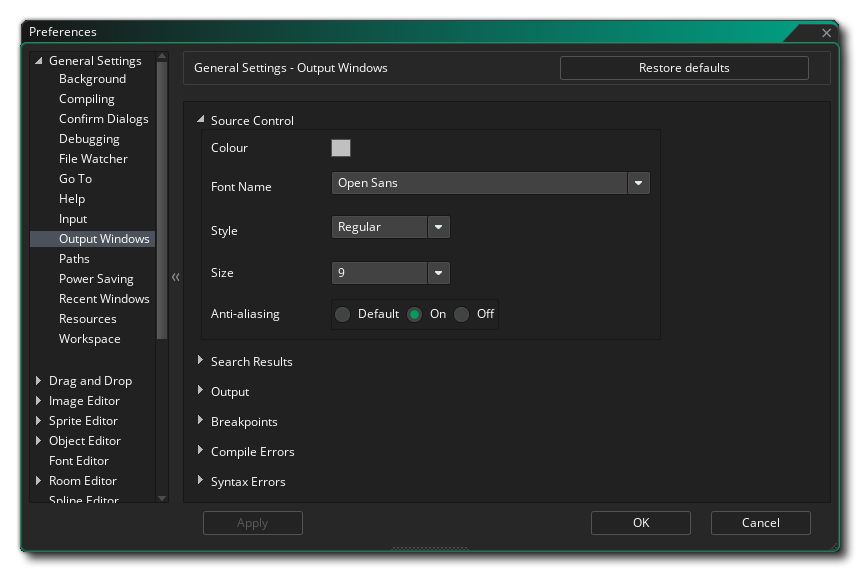
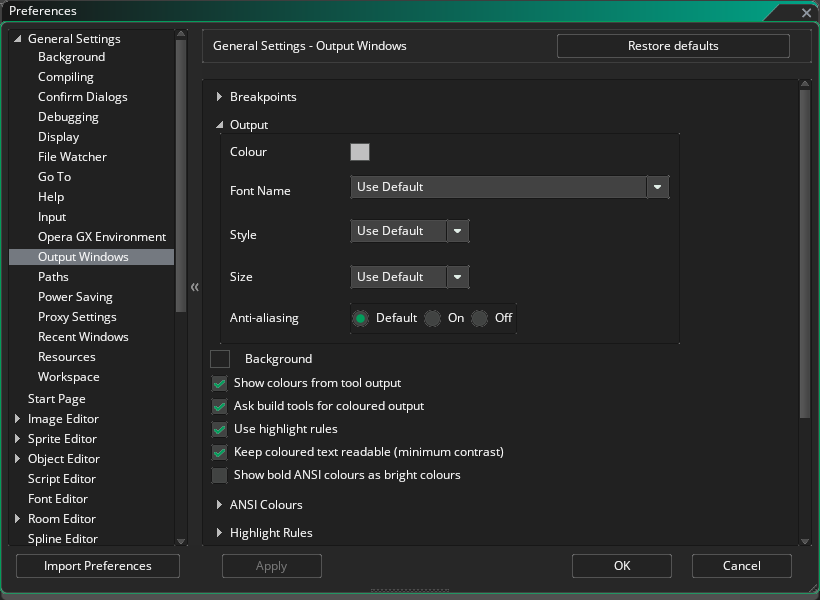
docs(feature): Output Windows preferences: 2026.200 screenshots, per-window font groups, rules file location and backup, Output window pointer to highlight rules

diff --git a/Manual/contents/Setting_Up_And_Version_Information/IDE_Preferences/General/Output_Windows.htm b/Manual/contents/Setting_Up_And_Version_Information/IDE_Preferences/General/Output_Windows.htm
@@ -18,12 +18,13 @@
   <p><img alt="Output Window Prefs" class="center" src="../../../assets/Images/Setup_And_Version/Preferences/General_OutputWindow_Prefs.png" /></p>
   <p>The <a href="../../../Introduction/The_Output_Window.htm"><strong>Output Window</strong></a> preferences control how text is shown in the Output, Source Control, Project Tool and Project Health windows: the font and background, the colours that build tools write into their output, and the highlight rules that colour text and turn it into links. The <strong>Terminal</strong> window uses the same font, background and colours, and the Search Results window uses the highlight rules.</p>
   <p>The defaults for the background, the text colour and the ANSI colours come from the current skin, so they change when you change the skin (including a skin made with the Skin Generator). Any of them that you change yourself is kept when the skin changes.</p>
-  <h2>Output Window Font Settings</h2>
+  <h2>Font Settings</h2>
+  <p>Each output window has its own group of font settings, named after the window: <strong>Output</strong>, <strong>Breakpoints</strong>, <strong>Compile Errors</strong>, <strong>Syntax Errors</strong>, <strong>Search Results</strong>, <strong>Project Health</strong>, <strong>Source Control</strong> and <strong>Project Tool</strong>. The Terminal window uses the <strong>Output</strong> group. Each group has the same options:</p>
   <ul class="colour">
-    <li><strong>Colour</strong>: The default colour for the text being written to the windows.</li>
-    <li><strong>Font Name</strong>: The name of the font to use (available fonts will depend on those installed on your system). The Terminal window needs a monospaced font, so if the font you choose isn&#39;t one, the Terminal uses the IDE&#39;s built-in monospaced font instead.</li>
+    <li><strong>Colour</strong>: The default colour for the text being written to the window. For the Output group it comes from the current skin until you change it.</li>
+    <li><strong>Font Name</strong>: The name of the font to use (available fonts will depend on those installed on your system), or <em>Use Default</em> for the code editor&#39;s font. The Terminal window needs a monospaced font, so if the font you choose isn&#39;t one, the Terminal uses the IDE&#39;s built-in monospaced font instead.</li>
     <li><strong>Style</strong>: The font style to use, like <strong>bold </strong>or <em>italics </em>(note that not all windows will permit the same styles and it will also depend on the font used).</li>
-    <li><strong>Size</strong>: The size to set the font to for the output windows.</li>
+    <li><strong>Size</strong>: The size to set the font to for the window.</li>
     <li><strong>Anti-Aliasing</strong>: Here you can set the <a class="tooltip" title=" ">anti-aliasing</a> mode for the output windows font rendering. You can choose to let the IDE decide by selecting <em>Use Default</em>, or you can force it <em>On </em>or <em>Off </em>by selecting either of those options.</li>
   </ul>
   <h2>Background</h2>
@@ -35,11 +36,13 @@
     <li><strong>Ask build tools for coloured output</strong>: Asks the build tools that <span data-keyref="GameMaker Name">GameMaker</span> runs to colour their output, which many tools only do when they write to a terminal. Default is on.</li>
     <li><strong>Keep coloured text readable (minimum contrast)</strong>: Adjusts the colour of any text that is hard to read against the colour behind it, for example dark blue text on a dark background. This applies to tool colours and highlight rule colours alike. Default is on.</li>
     <li><strong>Show bold ANSI colours as bright colours</strong>: Shows bold text in one of the 8 basic ANSI colours in its bright variant (bold red in bright red, and so on), as many terminals do. It only changes text that a tool coloured with an ANSI colour, not the colours of highlight rules. Default is off.</li>
-    <li><strong>ANSI colours</strong>: The 16 colours that ANSI colour codes 0 to 15 are shown in: Black, Red, Green, Yellow, Blue, Magenta, Cyan and White, and the bright version of each. The defaults come from the current skin.</li>
+    <li><strong>ANSI Colours</strong>: The 16 standard ANSI colours (palette entries 0 to 15): Black, Red, Green, Yellow, Blue, Magenta, Cyan and White, and the bright version of each. The defaults come from the current skin.</li>
   </ul>
+  <p><img alt="Output Windows ANSI Colours" class="center" src="../../../assets/Images/Setup_And_Version/Preferences/General_OutputWindow_ANSI_Colours.png" /></p>
   <p class="note"><span data-conref="../../../assets/snippets/Tag_note.hts"> </span> Changing any of these options and pressing <strong>Apply</strong> changes the text already in the windows as well as new output.</p>
   <h2>Highlight Rules</h2>
   <p>Highlight rules colour text that matches a pattern, can mark the line as an error or a warning, and can turn the text into a link that you open with <img alt="Icon Ctrl" class="icon" height="20" src="../../../assets/Images/Icons/Icon_Ctrl.png" width="55" /> / <img alt="Icon Cmd" class="icon" height="20" src="../../../assets/Images/Icons/Icon_Cmd.png" width="55" /> + <img alt="Icon LMB" class="icon" src="../../../assets/Images/Icons/Icon_LMB.png" />. Untick <strong>Use highlight rules</strong> to turn them all off.</p>
+  <p><img alt="Output Windows Highlight Rules" class="center" src="../../../assets/Images/Setup_And_Version/Preferences/General_OutputWindow_Highlight_Rules.png" /></p>
   <p>Each rule is a row with these columns:</p>
   <ul class="colour">
     <li><strong>On</strong>: Whether the rule is used.</li>
@@ -65,9 +68,10 @@
     <li><strong>Add Rule</strong>: Adds a new rule.</li>
     <li><strong>Reset to Defaults</strong>: Replaces your rules with the default rules.</li>
     <li><strong>Import...</strong> and <strong>Export...</strong>: Load rules from, or save them to, a rules file, to share them with other people.</li>
-    <li><strong>Show Rules File</strong>: Shows the file your rules are stored in, <span class="inline">output_highlight_rules.json</span> in your user folder. You can also edit it by hand.</li>
-    <li><strong>Preview (type or paste sample output)</strong>: Shows how the rules colour the text you type or paste, as you change them.</li>
+    <li><strong>Show Rules File</strong>: Shows the file your rules are stored in, <span class="inline">output_highlight_rules.json</span>. It is in the same folder as your other preferences (see <a href="../../IDE_Preferences.htm#back_up_preferences">Back Up Preferences</a> for where that is), so back it up with them. You can also edit it by hand.</li>
+    <li><strong>Preview (type or paste sample output)</strong>: Shows how the rules colour the text you type or paste, as you change them. It starts with some sample output.</li>
   </ul>
+  <p><img alt="Output Windows Highlight Rules Preview" class="center" src="../../../assets/Images/Setup_And_Version/Preferences/General_OutputWindow_Highlight_Rules_Preview.png" /></p>
   <p>A project can also have its own rules, stored in <span class="inline">options/output_highlight_rules.json</span> in the project folder, so that everyone working on the project gets them. Use <strong>Create Project Rules</strong> to start them. A project rule with the same name as one of yours replaces it while the project is open, so a project can also turn one of your rules off.</p>
   <p>You can also add a rule from the output itself: select some text, right-click it and choose <strong>Highlight This</strong> (or <strong>Highlight in Project</strong>) and a colour. <strong>Remove Highlight</strong> takes the rule away again, and <strong>Edit Highlight Rules...</strong> opens these preferences.</p>
   <h3>The Default Rules</h3>

diff --git a/Manual/contents/Introduction/The_Output_Window.htm b/Manual/contents/Introduction/The_Output_Window.htm
@@ -24,6 +24,13 @@
   <div class="droptext" data-targetname="drop_down">
     <p class="dropspot"><img alt="The Output Window" class="center" src="../assets/Images/Introduction/Output_Output.png" />The general <strong>Output </strong>window is where all compiler output is shown, as well as any messages that you may have added to your game using the <span class="inline3_func"><a data-xref="{title}" href="../GameMaker_Language/GML_Reference/Debugging/show_debug_message.htm">show_debug_message</a></span> function. Most of the initial information shown is simply debug information on how the game is being built and as such can generally be ignored. However, if you have an issue building your project for a target platform it can prove helpful in finding the cause as well as provide information for Support should you contact them.</p>
     <p class="note"><span data-conref="../assets/snippets/Tag_note.hts"> </span> You can change the quantity of information shown here from the <a href="../Setting_Up_And_Version_Information/IDE_Preferences/General_Preferences.htm">Compiling</a> section of the <a href="../Setting_Up_And_Version_Information/IDE_Preferences.htm">Preferences</a>.</p>
+    <p>The Output window (and the Source Control, Project Tool and Project Health windows) shows the colours that build tools write into their output, and colours text using highlight rules. Error locations, file paths, web addresses and asset names are links: <img alt="Icon Ctrl" class="icon" height="20" src="../assets/Images/Icons/Icon_Ctrl.png" width="55" /> / <img alt="Icon Cmd" class="icon" height="20" src="../assets/Images/Icons/Icon_Cmd.png" width="55" /> + <img alt="Icon LMB" class="icon" src="../assets/Images/Icons/Icon_LMB.png" /> one to open it. A bar at the top right counts the errors and warnings, and <strong>F8</strong> and <img alt="Icon Shift" class="icon" height="20" src="../assets/Images/Icons/Icon_Shift.png" width="55" /> + <strong>F8</strong> jump to the next and previous one. Right-click the window to:</p>
+    <ul class="colour">
+      <li><strong>Highlight This</strong> / <strong>Highlight in Project</strong>: Add a highlight rule for the selected text, for you or for everyone on the project. <strong>Remove Highlight</strong> takes it away again.</li>
+      <li><strong>Filter Output...</strong>, <strong>Show Errors Only</strong> and <strong>Show Errors and Warnings</strong>: Show only the matching lines, and <strong>Show All Output</strong> to go back.</li>
+      <li><strong>Copy as HTML</strong> and <strong>Export as HTML...</strong>: Copy or save the output as a web page, with its colours.</li>
+      <li><strong>Edit Highlight Rules...</strong>: Open the <a href="../Setting_Up_And_Version_Information/IDE_Preferences/General/Output_Windows.htm">Output Windows Preferences</a>, where the colours and highlight rules are set up.</li>
+    </ul>
     <p class="note"><span data-conref="../assets/snippets/Tag_note.hts"> </span> The <strong>Log</strong> window of <a data-xref="{title}" href="../GameMaker_Language/GML_Reference/Debugging/The_Debug_Overlay.htm">The Debug Overlay</a> also shows this output.</p>
     <p class="dropspot"> </p>
   </div>

diff --git a/Manual/contents/Setting_Up_And_Version_Information/IDE_Preferences.htm b/Manual/contents/Setting_Up_And_Version_Information/IDE_Preferences.htm
@@ -19,16 +19,17 @@
   <p>In this section we cover the IDE specific areas of the preferences window - for the individual target platforms please see the section on <a data-xref="{title}" href="Platform_Preferences.htm">Platform Preferences</a>. Note that after changing any preferences from this window you need to click the <strong>Apply </strong>button for them to take effect.</p>
   <h2>Import Preferences</h2>
   <p>The &quot;<strong>Import Preferences</strong>&quot; button allows you to import preferences from a previous GameMaker installation. It opens the data folder for a previous installation, if it can find one, where you are able to select the <span class="inline2">local_settings.json</span> file to import. After confirming the import, you can choose to revert back to the previous preferences if you see any issues. </p>
-  <h2>Back Up Preferences</h2>
+  <h2 id="back_up_preferences">Back Up Preferences</h2>
   <p>If, after changing the options here to customise <span data-keyref="GameMaker Name">GameMaker</span> to your own tastes, you wish to back up the preferences that you have set you need to go to this folder on Windows:</p>
   <p class="code">%AppData%\<span data-keyref="GameMaker_Paths_Directory_Name">GameMakerStudio2</span>\&lt;your_account_name&gt;\</p>
   <p>Or this folder on Mac:</p>
   <p class="code">~/<span data-keyref="Const_Mac_ApplicationSupportFolderName">Library/Application Support</span>/<span data-keyref="GameMaker_Paths_Directory_Name">GameMakerStudio2</span>/&lt;your_account_name&gt;/</p>
   <p class="note"><span data-conref="../assets/snippets/Tag_note.hts"> </span> In previous versions of <span data-keyref="GameMaker Name">GameMaker</span> the <span class="inline2">.config</span> folder was used instead of the <span class="inline2"><span data-keyref="Const_Mac_ApplicationSupportFolderName">Library/Application Support</span></span> folder. <span data-keyref="GameMaker Name">GameMaker</span> will automatically move the contents of the old folder to the new one upon login if the new folder doesn&#39;t exist yet.</p>
-  <p>And then copy the following two files to a safe place:</p>
+  <p>And then copy the following files to a safe place:</p>
   <ul class="colour">
     <li><span class="inline">local_settings.json</span></li>
     <li><span class="inline">cloud_settings.json</span></li>
+    <li><span class="inline">output_highlight_rules.json</span> (your <a href="IDE_Preferences/General/Output_Windows.htm">Output Windows</a> highlight rules, if you have changed them)</li>
   </ul>
   <p>However, if you wish to reset the preferences you have changed, then you need to click the &quot;<strong>Restore Defaults</strong>&quot; button at the top of the window. Note that this will only restore the defaults for the section currently being edited.</p>
   <h2>Preferences</h2>
